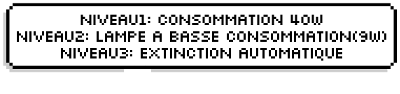
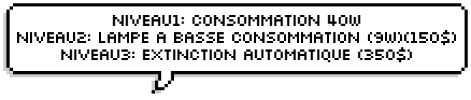
ajout des prix des upgrades

diff --git a/js/states/level3/run/create.js b/js/states/level3/run/create.js
@@ -114,8 +114,8 @@ define(['phaser'], function(phaser){
         this._oven_upgrade.id = 6;
         
         //Déclaration des textes d'amélioration
-        this._light_text = game.add.sprite(830,450,'light_text');
-        this._heat_text = game.add.sprite(860,450,'heat_text');
+        this._light_text = game.add.sprite(795,450,'light_text');
+        this._heat_text = game.add.sprite(840,450,'heat_text');
         this._computer_text = game.add.sprite(870,450,'computer_text');
         this._tv_text = game.add.sprite(870,450,'tv_text');
         this._washing_text = game.add.sprite(870,450,'washing_text');
